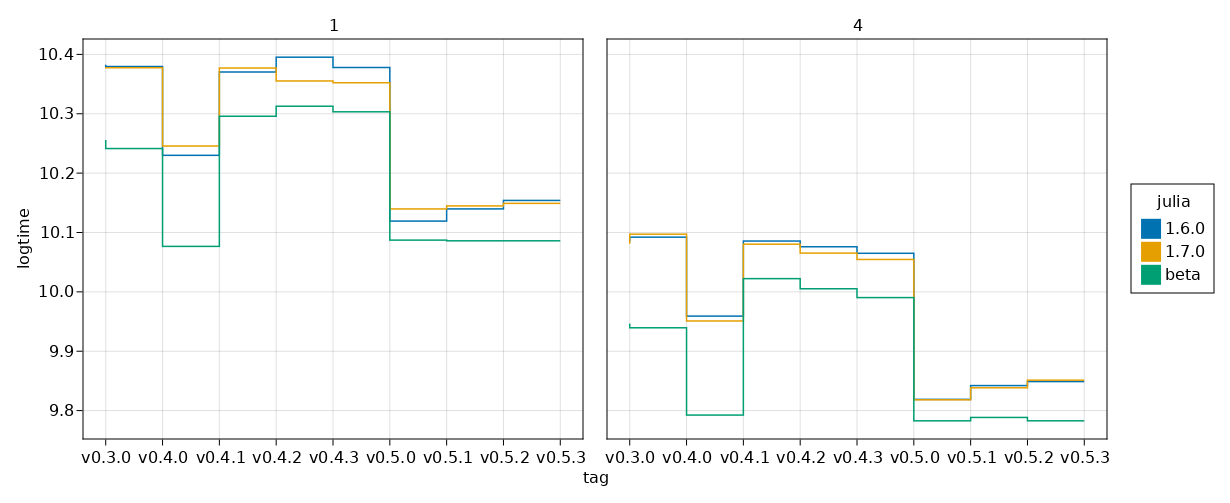
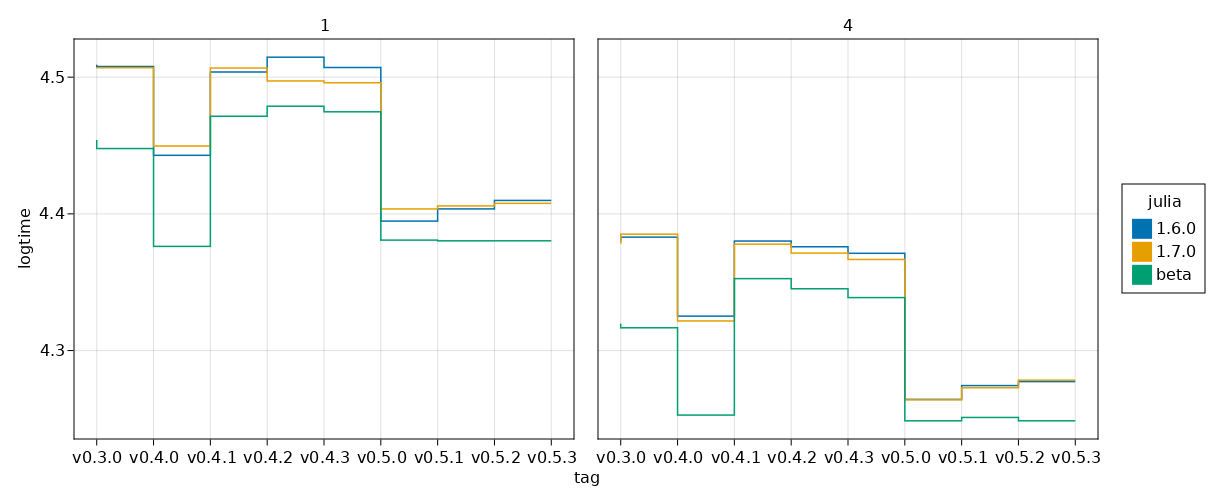
switch to log10

diff --git a/README.md b/README.md
@@ -6,6 +6,11 @@ Overall performance (mean log of execution time of all benchmarks):
 
 ![](./benchmarks0.png)
 
+- the column gives how many threads were used;
+- the color gives the julia version;
+- the x axis is the QuantumClifford verion;
+- the y axis is the mean-log-time (lower is better; one unit represents speedup by a factor of 10; log scale)
+
 <details>
 <summary>
 Benchmark results at finer granularity (groups) 
@@ -24,5 +29,6 @@ Benchmark results at even finer granularity (sub-groups)
 <summary>
 All benchmark results
 </summary>
+The y axis is time in nano-seconds.
 <img src="./benchmarks3.png">
 </details>
